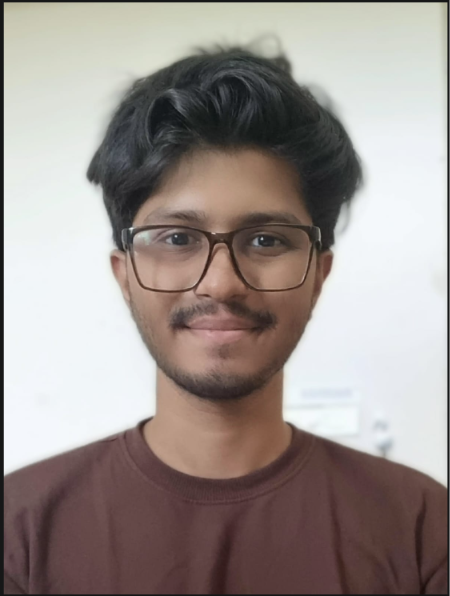
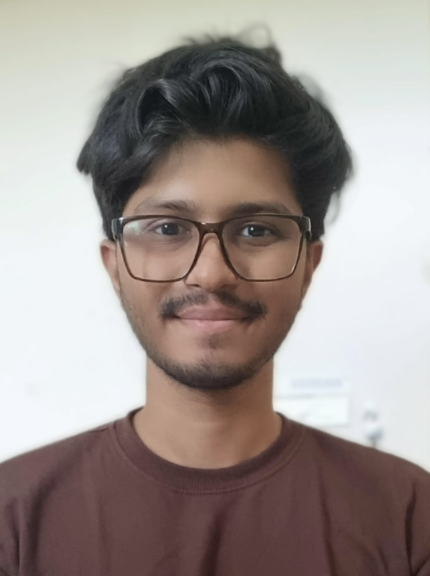
hero: Remove black border from profile photo
- Cropped original image file to remove screenshot artifacts
- Added CSS border: none and slight scale to ensure clean edge clipping

diff --git a/index.html b/index.html
@@ -620,6 +620,8 @@ body:not(.dark) .pdf-kbd { background: #f0ece8; border-color: #e0dcd4; color: #a
     /* Sharp geometric cut: chamfered top-left and bottom-right */
     clip-path: polygon(15% 0, 100% 0, 100% 85%, 85% 100%, 0 100%, 0 15%);
     filter: contrast(1.05);
+    border: none !important;
+    transform: scale(1.02);
   }
   .geo-solid-shape {
     position: absolute;
